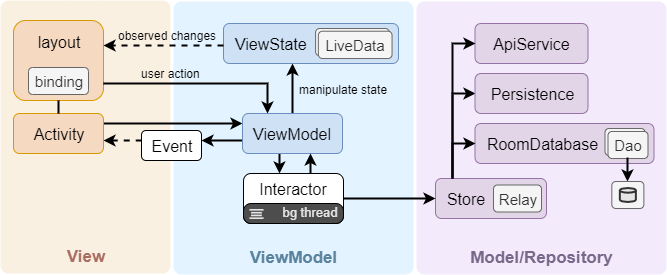
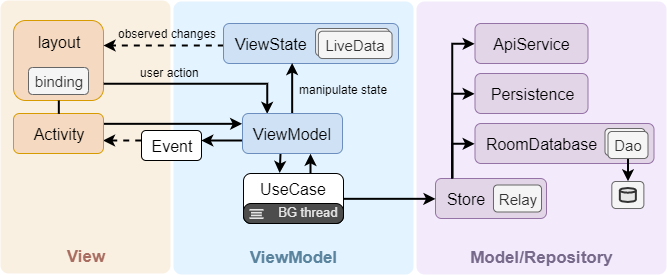
Update diagram in README and add short description of extras folder contents

diff --git a/extras/README.md b/extras/README.md
@@ -1,0 +1,3 @@
+# MVVM Android extras content
+
+- **architecture-diagram.png** - A diagram simply describes the main parts of the architecture. The source file in the draw.io format can be changed in [Google Drive](https://drive.google.com/drive/u/1/folders/1SkculA_-hh0Is6bfxd8HrgF6Iv6hXQ3s) (if you've got permission).
